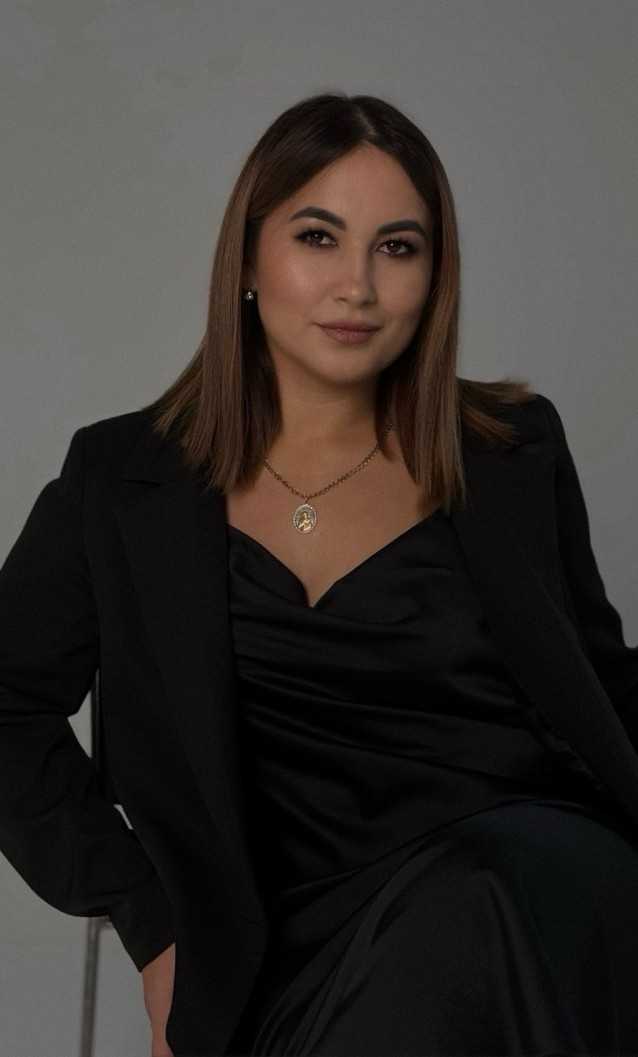
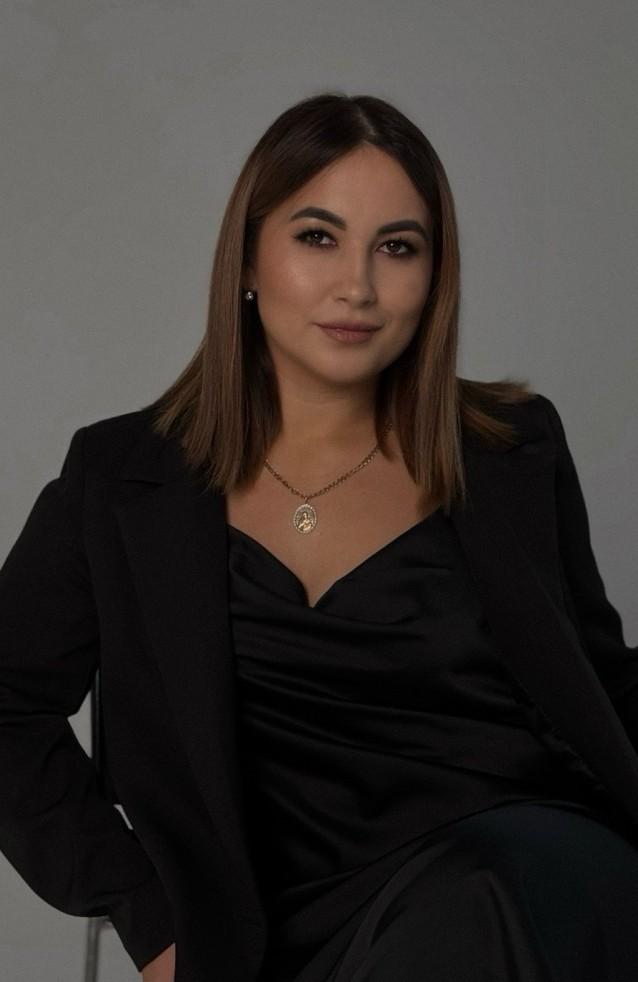
фикс

diff --git a/index.html b/index.html
@@ -32,6 +32,11 @@
       line-height: 1.7;
     }
 
+    img {
+      max-width: 100%;
+      height: auto;
+    }
+
     :root {
       --gold: #C8A54D;
       --gold-light: #E6C46A;
@@ -171,8 +176,7 @@
       animation: photoAppear 1.6s ease forwards;
       animation-delay: 2.2s;
       margin-bottom: 45px;
-      max-width: 420px;
-      width: 85%;
+      width: min(420px, 90vw);
     }
 
     @keyframes photoAppear {
@@ -182,8 +186,9 @@
     .hero-photo {
       width: 100%;
       height: auto;
-      max-height: 480px;
+      max-height: none;
       display: block;
+      object-fit: contain;
       border-radius: 6px;
       border: 1px solid rgba(200,165,77,.5);
       box-shadow: 0 20px 60px rgba(0,0,0,.6);
@@ -821,8 +826,8 @@
       section { padding: 70px 6%; }
 
       .hero { min-height: 100svh; padding: 90px 5% 60px; }
-      .hero-photo-wrap { width: 90%; max-width: 420px; margin-bottom: 30px; }
-      .hero-photo { max-height: 380px; }
+      .hero-photo-wrap { width: min(92vw, 420px); margin-bottom: 30px; }
+      .hero-photo { max-height: none; }
 
       .name { font-size: 52px; letter-spacing: 3px; }
       .name span { font-size: 26px; letter-spacing: 3px; }
@@ -888,6 +893,8 @@
 
       .footer::before { width: 500px; height: 500px; }
 
+      .hero-content { max-width: 100%; }
+      .hero-photo { width: 100%; }
       .location-address { line-height: 1.6; }
       .location-address strong { font-size: 16px; margin-top: 14px; }
     }
@@ -897,8 +904,8 @@
       .name span { font-size: 21px; }
       .location-name { font-size: 30px; }
       .footer h2 { font-size: 38px; }
-      .hero-photo-wrap { width: 90%; max-width: 360px; }
-      .hero-photo { max-height: 320px; }
+      .hero-photo-wrap { width: 92vw; max-width: 360px; }
+      .hero-photo { max-height: none; }
       .details-card { padding: 25px 16px; }
       .location-card { padding: 32px 18px; }
       .rsvp-card { padding: 32px 18px; }
@@ -955,7 +962,7 @@
       </div>
       <div class="info-row">
         <div class="info-title">Место</div>
-        <div class="info-value">Ресторан <strong>Dante</strong>, г. Чебоксары</div>
+        <div class="info-value">Ресторан <strong>Dante</strong></div>
       </div>
     </div>
   </section>
@@ -1009,7 +1016,7 @@
           <button type="button" id="btnNo" onclick="selectChoice('no')">Не приду</button>
         </div>
         <a href="#" id="rsvpSubmit" class="rsvp-submit disabled" onclick="return sendRsvp(event)">Отправить ответ</a>
-        <div class="rsvp-hint" id="rsvpHint">Ответ придёт напрямую Олесе</div>
+        
       </div>
     </div>
   </section>
@@ -1042,7 +1049,7 @@
   <script>
     // ⚠ Вставь сюда URL веб-приложения, который выдаст Google Apps Script после публикации
     // (инструкция и код скрипта — в сообщении рядом с файлом)
-    const SHEET_URL = "https://script.google.com/macros/s/AKfycbykPxESkErdorHQv_zD9eyRBS7ZEA-_UfoUwdmhuQuhZXrj2BY_P6Lsiit7EJ0GRpUy/exec";
+    const SHEET_URL = "https://script.google.com/macros/s/AKfycby5Yb0xSpBDB4dX7FVMt2lixRf7AwqWfps-qT3wEX5kZnhDf8jeVviNNtBADi2nJ1YX/exec";
 
     let rsvpChoice = null;
 
